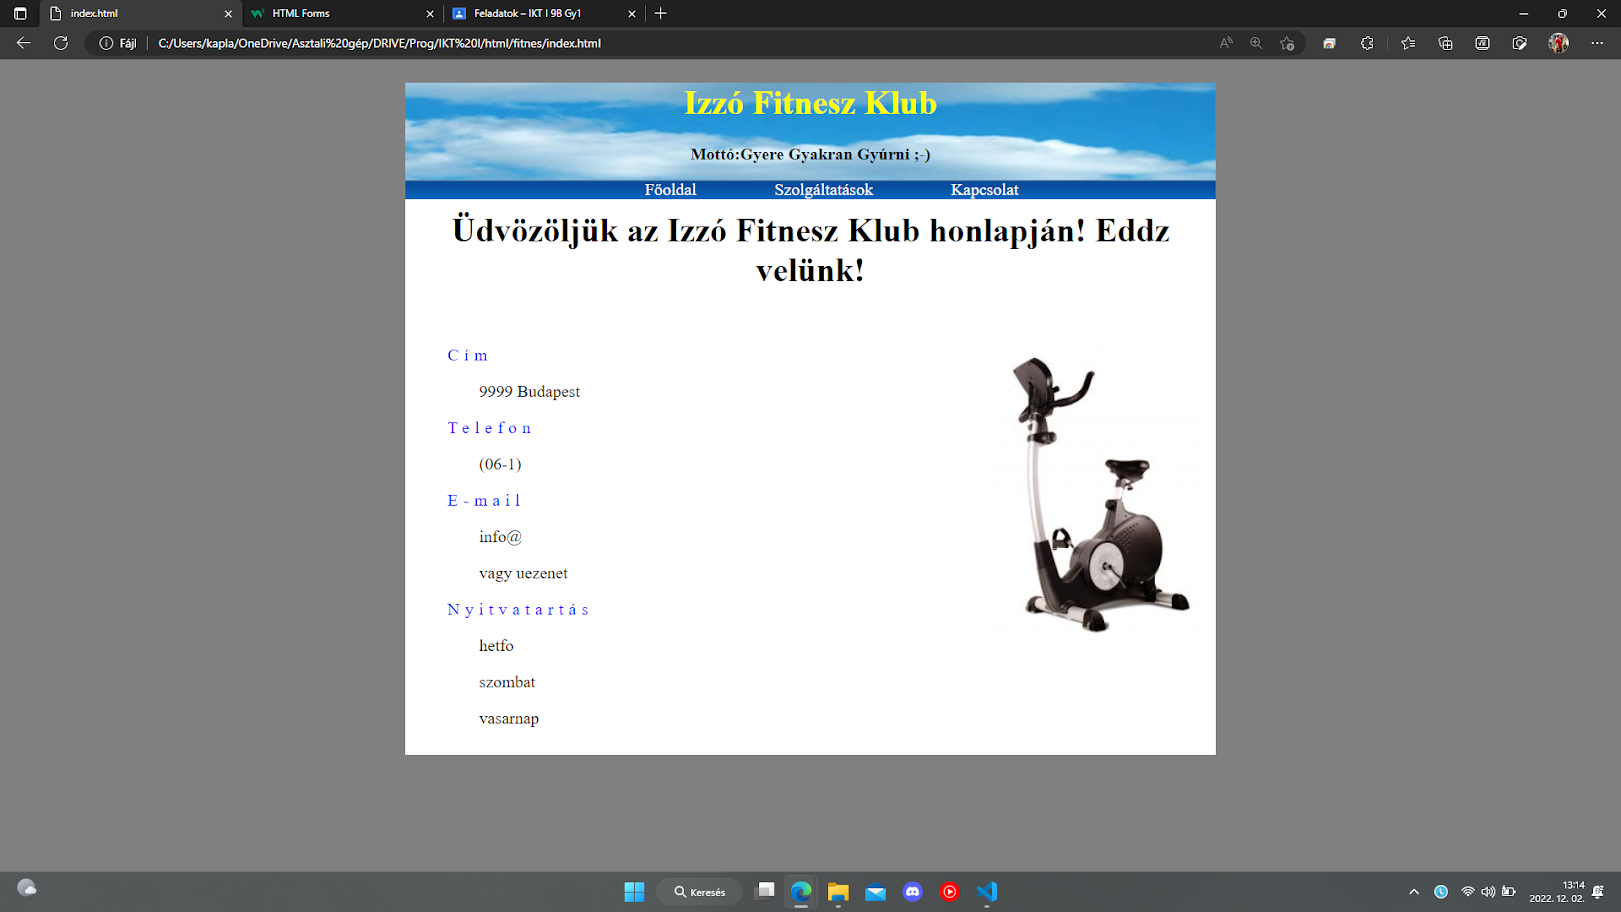
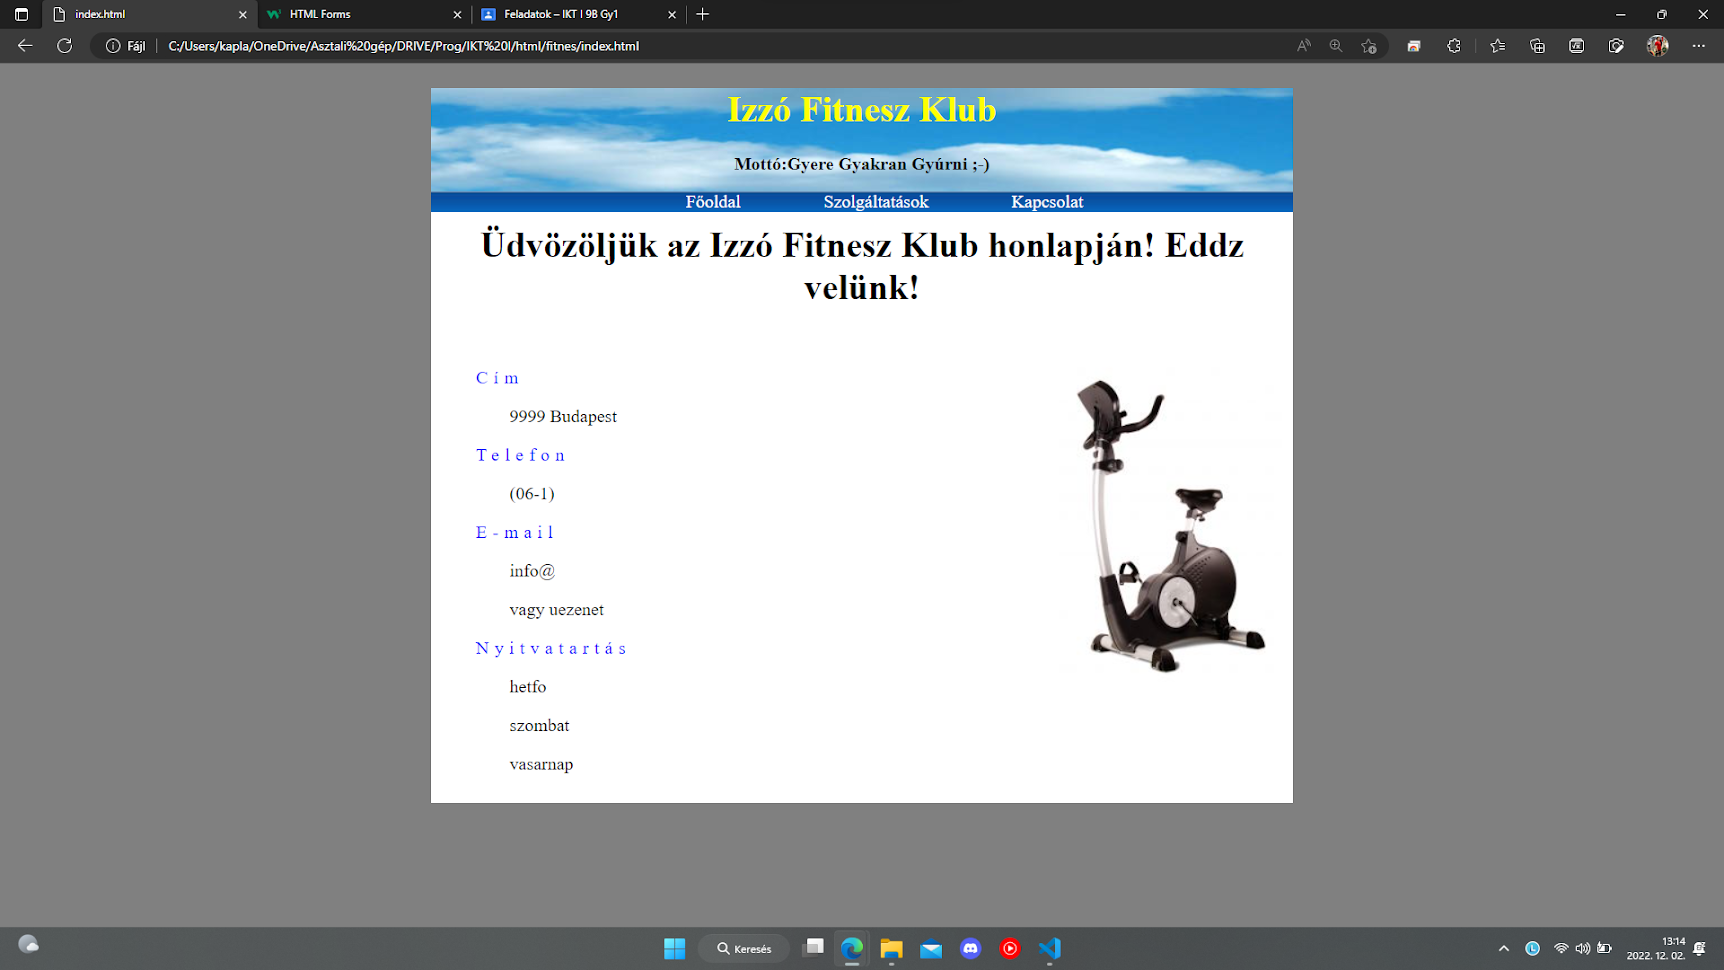
fitnes ikt

diff --git a/masodik.html b/masodik.html
@@ -1,0 +1,81 @@
+<!DOCTYPE html>
+<html lang="en">
+<head>
+    <meta charset="UTF-8">
+    <meta http-equiv="X-UA-Compatible" content="IE=edge">
+    <meta name="viewport" content="widtd=device-widtd, initial-scale=1.0">
+    <title>Fitnesz szolgáltatások</title>
+    <link rel="stylesheet" href="masodik.css">
+    <link rel="stylesheet" href="header.css">
+</head>
+<body>
+    <div class="wrapper">
+        <header>
+            <h1>Izzó Fitnes Klub</h1>
+            <h4>Mottó:Gyere Gyakran Gyurni :-)</h4>
+        </header>
+        <nav>
+            <ul>
+                <li><a href="elso.html">Főoldal</a></li>
+                <li><a href="masodik.html">Szolgáltatások</a></li>
+                <li><a href="harmadik.html">Kapcsolat</a></li>
+            </ul>
+        </nav>
+        <main>
+            <h1>Szolgáltatások</h1>
+            
+            <ul>
+                <li>
+                    Konditerem <br>
+                    Légkondícionáló
+                </li>
+            </ul>
+
+            </ul>
+
+            <table>
+                
+                <tr>
+                    <td>Nap:</td>
+                    <td>Teremfelelős edző:</td>
+                </tr>
+                <tr>
+                    <td>Hétfő</td>
+                    <td>Kocsis Péter</td>
+                </tr>
+                <tr>
+                    <td>Kedd</td>
+                    <td>Varga Éva</td>
+                </tr>
+                <tr>
+                    <td>Szerda</td>
+                    <td>Sándor László</td>
+                </tr>
+                <tr>
+                    <td>Csütörtök</td>
+                    <td>Gyökös Alexandra</td>
+                </tr>
+                <tr>
+                    <td>Péntek</td>
+                    <td>Ember Nóra</td>
+                </tr>
+                <tr>
+                    <td>Szombat</td>
+                    <td>Nagy Nándor</td>
+                </tr>
+            </table>
+            
+            <ul>
+                <li>
+                    Uszoda <br>
+                    Úszni kívánó
+                </li>
+                <li class="utso-sor">
+                    Szauna <br>
+                    Kombinált
+                </li>
+            </ul>
+        </main>
+    </div>
+</body>
+</html>

diff --git a/harmadik.html b/harmadik.html
@@ -1,0 +1,46 @@
+<!DOCTYPE html>
+<html lang="en">
+<head>
+    <meta charset="UTF-8">
+    <meta http-equiv="X-UA-Compatible" content="IE=edge">
+    <meta name="viewport" content="width=device-width, initial-scale=1.0">
+    <title>Kapcsolat</title>
+    <link rel="stylesheet" href="header.css">
+    <link rel="stylesheet" href="haramdik.css">
+</head>
+<body>
+    <div class="wrapper">
+        <header>
+            <h1>Izzó Fitnes Klub</h1>
+            <h4>Mottó:Gyere Gyakran Gyurni :-)</h4>
+        </header>
+        <nav>
+            <ul>
+                <li><a href="elso.html">Főoldal</a></li>
+                <li><a href="masodik.html">Szolgáltatások</a></li>
+                <li><a href="harmadik.html">Kapcsolat</a></li>
+            </ul>
+        </nav>
+        <main>
+            <h1>Kapcsolat</h1>
+            <p>Ha kérdése van, írjon nekünk!</p>
+
+            <form action="#" method="get">
+                <label for="nev">Név:</label> <br>
+                <input type="text" name="nev"> <br> <br>
+
+                Melyik szolgáltatásunk keltette fel az érdeklődését? <br>
+                <input type="radio" name="konditerem"> <label for="konditerem">Konditerem</label> <br>
+                <input type="radio" name="konditerem"> <label for="konditerem">Uszoda</label> <br>
+                <input type="radio" name="konditerem"> <label for="konditerem">Szauna</label> <br> <br>
+
+                <label for="uzenet">Üzenet:</label> <br>
+                <input type="text" name="uzenet"> <br> <br>
+
+                <input type="submit" value="Küld">
+            </form>
+
+        </main>
+
+</body>
+</html>

diff --git a/elso.html b/elso.html
@@ -1,0 +1,41 @@
+<!DOCTYPE html>
+<html lang="en">
+<head>
+    <meta charset="UTF-8">
+    <meta http-equiv="X-UA-Compatible" content="IE=edge">
+    <meta name="viewport" content="width=device-width, initial-scale=1.0">
+    <title>Fitnesz</title>
+    <link rel="stylesheet" href="header.css">
+    <link rel="stylesheet" href="elso.css">
+</head>
+<body>
+    <div class="wrapper">
+        <header>
+            <h1>Izzó Fitnes Klub</h1>
+            <h4>Mottó:Gyere Gyakran Gyurni :-)</h4>
+        </header>
+        <nav>
+            <ul>
+                <li><a href="#">Főoldal</a></li>
+                <li><a href="masodik.html">Szolgáltatások</a></li>
+                <li><a href="harmadik.html">Kapcsolat</a></li>
+            </ul>
+        </nav>
+        <main>
+
+            <h1>Üdvözöljük az Izzó Fitnesz Klubb honlapján! Eddz velünk!</h1>
+            <p class="cim">Cím</p>
+            <p>99999 Budapest</p>
+            <p class="cim">Telefon</p>
+            <p>(06-01)</p>
+            <p class="cim">E-mail</p>
+            <p>info@</p>
+            <p>Vagy üzenet</p>
+            <p class="cim">Nyitvatarás</p>
+            <p>Hétfő</p>
+            <p>Szombat</p>
+            <p class="utso-sor">Vasárnap</p>
+        </main>
+    </div>
+</body>
+</html>

diff --git a/header.css b/header.css
@@ -1,0 +1,55 @@
+*{  
+    font-family: Arial, Helvetica, sans-serif;
+}
+
+body{
+    background-color: gray;
+}
+
+.wrapper{
+    background-color: white;
+    margin: auto;
+    width: 800px;
+    margin-top: 30px;
+}
+
+h1, h4{
+    text-align: center;
+}
+
+header{
+    background-image: url(/ég.jpg);
+}
+
+nav li {
+    padding: 30px;
+    display: inline;
+}
+
+nav ul {
+    text-align: center;
+    margin: 0;
+}
+
+
+nav{
+    background-image: url(/menu-hattere.png);
+}
+
+h4{
+    margin: 0;
+    padding: 12px;
+}
+
+a{
+    text-decoration: none;
+    color: white;
+}
+
+a:hover{
+    text-decoration: underline;
+}
+
+.utso-sor{
+    padding-bottom: 30px;
+}

diff --git a/elso.css b/elso.css
@@ -1,0 +1,15 @@
+p{
+    margin-left: 60px;
+    letter-spacing: 5px;
+}
+
+.cim{
+    margin-left: 40px;
+    color: blue;
+}
+
+main{
+    background-image: url(/bicikli.jpg);
+    background-repeat: no-repeat;
+    background-position: right;
+}

diff --git a/masodik.css b/masodik.css
@@ -1,0 +1,11 @@
+td{
+    padding: 5px;
+}
+
+table{
+    margin-left: 70px;
+}
+
+ul{
+    margin-left: 30px;
+}

diff --git a/haramdik.css b/haramdik.css
@@ -1,0 +1,4 @@
+main{
+    margin-left: 20px;
+    padding-bottom: 20px;
+}
